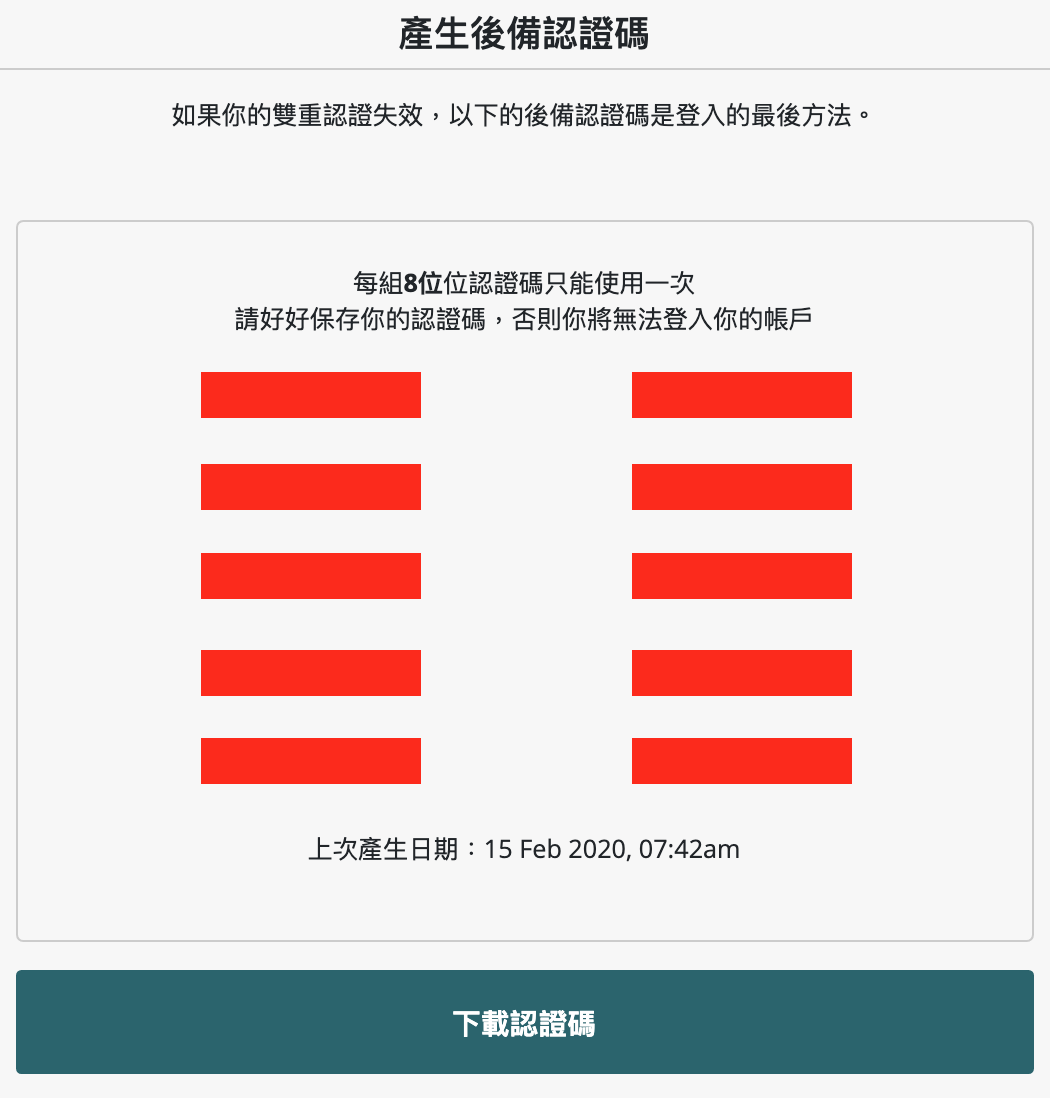
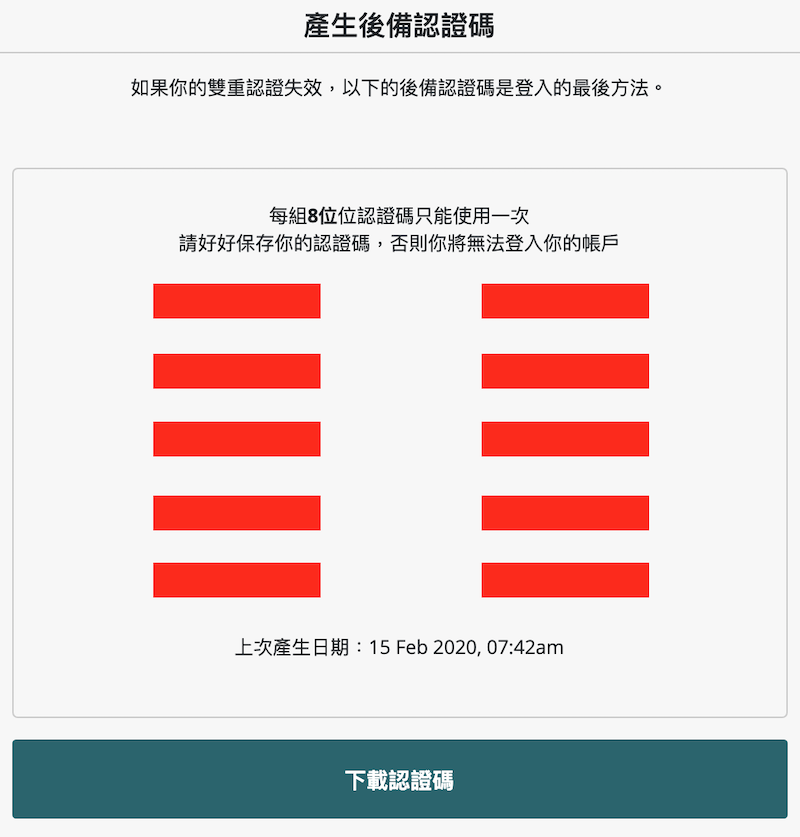
GitBook: [zh] one page and one asset modified

diff --git a/user-guide/liker-id/verifying-email-address.md b/user-guide/liker-id/verifying-email-address.md
@@ -41,6 +41,8 @@ description: 綁定多款登入方法，增強你 Liker ID 的安全性
 4. Google Authenticator 畫面的底部會新增了一個 Authcore 的列，並顯示一組六位的數字。把該組數字填寫在桌面電腦畫面的底部紅圈位置，再點擊「下一步」，看見「設立認證應用程式」「完成」後，點擊「好」
 5. 按下來，選擇「產生後備認證碼」
 
+![](../../.gitbook/assets/2fa-backup-screen.png)
+
 所有設定雙重認證的步驟至此完成了。
 
 ## 認證電郵地址
